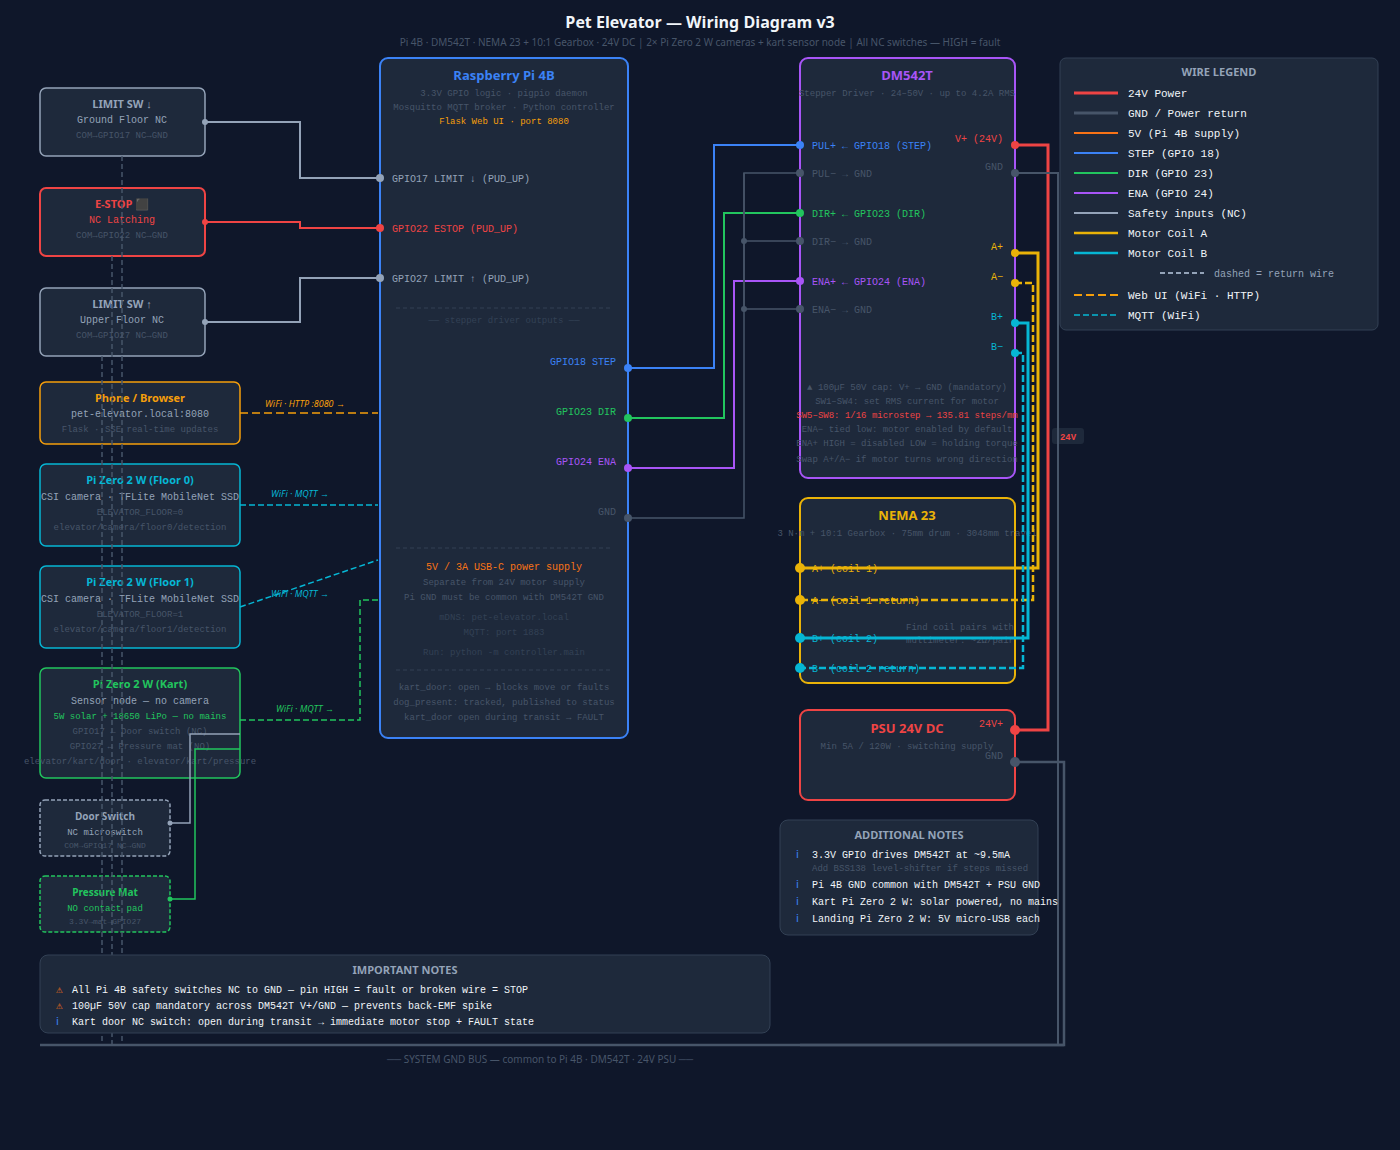
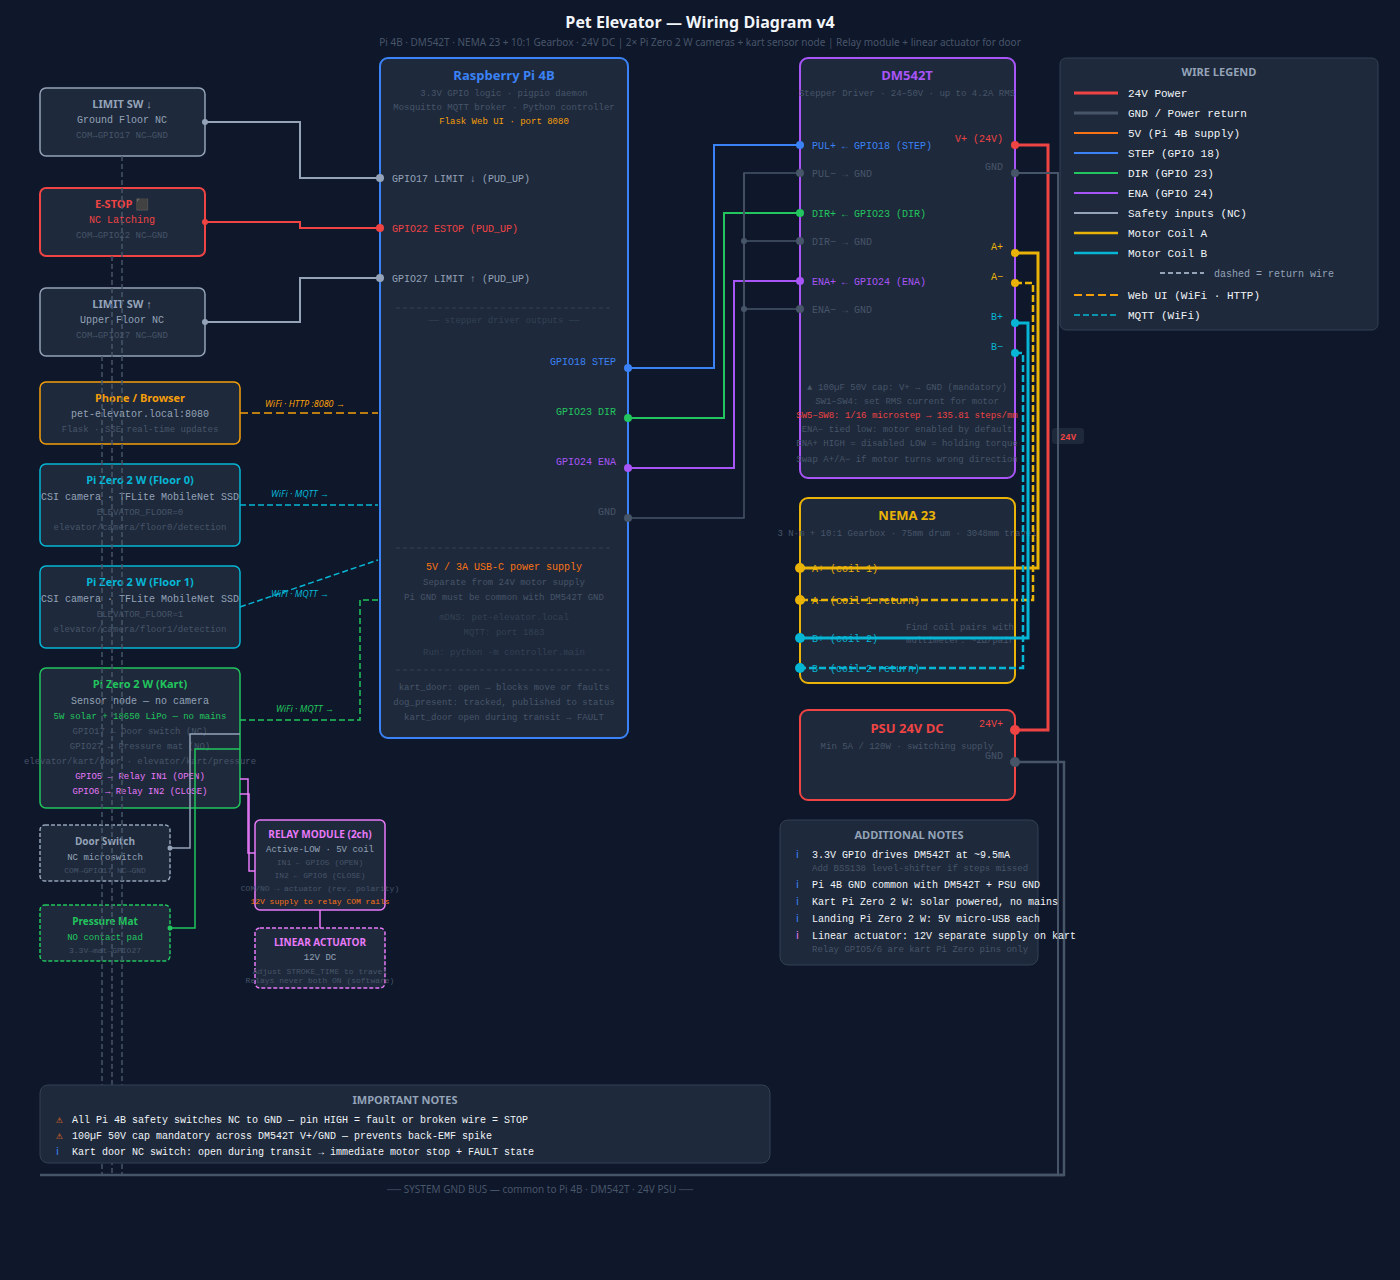
Add relay-driven linear actuator and pressure mat settle timer
- kart_node/config.py: DOOR_RELAY_OPEN_PIN (GPIO5), DOOR_RELAY_CLOSE_PIN
  (GPIO6), DOOR_ACTUATOR_STROKE_TIME (4.0s), DOG_BOARD_SETTLE_TIME (3.0s)
- kart_node/main.py: set up relay GPIO outputs (active-LOW, HIGH at boot);
  convert _init_mqtt/_on_mqtt_message from staticmethod to instance methods;
  _actuate_door() pulses relay in a daemon thread with guard-before-drive
  safety; pressure mat now uses a cancellable threading.Timer so dog_present
  is only published after the mat is held continuously for DOG_BOARD_SETTLE_TIME
- wiring/wiring_diagram.svg: v4 — relay module (GPIO5/6) and linear actuator
  added; kart Pi Zero box extended; SVG expanded to 1400×1280
- docs/wiring_diagram.png: re-rendered from updated SVG

diff --git a/kart_node/main.py b/kart_node/main.py
@@ -24,6 +24,7 @@ import json
 import logging
 import signal
 import sys
+import threading
 import time
 
 import RPi.GPIO as GPIO
@@ -41,6 +42,8 @@ logger = logging.getLogger(__name__)
 class KartNode:
     def __init__(self) -> None:
         self._mqtt = self._init_mqtt()
+        self._board_timer: threading.Timer | None = None
+        self._board_timer_lock = threading.Lock()
 
     # ------------------------------------------------------------------ #
     # Lifecycle                                                            #
@@ -74,6 +77,9 @@ class KartNode:
         GPIO.setmode(GPIO.BCM)
         GPIO.setup(config.DOOR_PIN,     GPIO.IN, pull_up_down=GPIO.PUD_UP)
         GPIO.setup(config.PRESSURE_PIN, GPIO.IN, pull_up_down=GPIO.PUD_DOWN)
+        # Relay outputs: active-LOW module, so initial=HIGH keeps relays off at boot.
+        GPIO.setup(config.DOOR_RELAY_OPEN_PIN,  GPIO.OUT, initial=GPIO.HIGH)
+        GPIO.setup(config.DOOR_RELAY_CLOSE_PIN, GPIO.OUT, initial=GPIO.HIGH)
         GPIO.add_event_detect(
             config.DOOR_PIN, GPIO.BOTH,
             callback=self._on_door_change, bouncetime=50,
@@ -96,15 +102,37 @@ class KartNode:
 
     def _on_pressure_change(self, channel: int) -> None:
         present = self._read_pressure()
-        logger.info("Pressure mat → dog_present=%s", present)
-        self._publish_pressure(present)
+        logger.info("Pressure mat → dog_present=%s (raw)", present)
+        with self._board_timer_lock:
+            if self._board_timer is not None:
+                self._board_timer.cancel()
+                self._board_timer = None
+        if present:
+            # Start settle timer — only publish "aboard" if mat stays held
+            with self._board_timer_lock:
+                self._board_timer = threading.Timer(
+                    config.DOG_BOARD_SETTLE_TIME, self._confirm_boarded,
+                )
+                self._board_timer.daemon = True
+                self._board_timer.start()
+            logger.info("Pressure mat held — confirming in %.1fs", config.DOG_BOARD_SETTLE_TIME)
+        else:
+            self._publish_pressure(False)
+
+    def _confirm_boarded(self) -> None:
+        with self._board_timer_lock:
+            self._board_timer = None
+        if self._read_pressure():
+            logger.info("Dog fully aboard (settle complete)")
+            self._publish_pressure(True)
+        else:
+            logger.info("Pressure mat released during settle — ignoring")
 
     # ------------------------------------------------------------------ #
     # MQTT                                                                 #
     # ------------------------------------------------------------------ #
 
-    @staticmethod
-    def _init_mqtt() -> mqtt.Client:
+    def _init_mqtt(self) -> mqtt.Client:
         client = mqtt.Client(client_id="elevator-kart", clean_session=True)
         client.on_connect    = lambda c, u, f, rc: (
             logger.info("MQTT connected to %s (rc=%d)", config.MQTT_BROKER, rc),
@@ -113,11 +141,10 @@ class KartNode:
         client.on_disconnect = lambda c, u, rc: logger.warning(
             "MQTT disconnected (rc=%d)", rc
         )
-        client.on_message = KartNode._on_mqtt_message
+        client.on_message = self._on_mqtt_message
         return client
 
-    @staticmethod
-    def _on_mqtt_message(client, userdata, msg) -> None:
+    def _on_mqtt_message(self, client, userdata, msg) -> None:
         try:
             payload = json.loads(msg.payload)
         except (json.JSONDecodeError, UnicodeDecodeError):
@@ -130,8 +157,16 @@ class KartNode:
                 logger.warning("Unknown door command action: %r", action)
                 return
             logger.info("Door command received: %s", action)
-            # TODO: actuate door motor/servo on GPIO when hardware is fitted
-            # e.g. GPIO.output(config.DOOR_ACTUATOR_PIN, GPIO.HIGH if action == "open" else GPIO.LOW)
+            threading.Thread(target=self._actuate_door, args=(action,), daemon=True).start()
+
+    def _actuate_door(self, action: str) -> None:
+        drive_pin = config.DOOR_RELAY_OPEN_PIN  if action == "open"  else config.DOOR_RELAY_CLOSE_PIN
+        guard_pin = config.DOOR_RELAY_CLOSE_PIN if action == "open"  else config.DOOR_RELAY_OPEN_PIN
+        GPIO.output(guard_pin, GPIO.HIGH)  # de-energise other relay first (active-LOW: HIGH = off)
+        GPIO.output(drive_pin, GPIO.LOW)   # energise drive relay (active-LOW: LOW = on)
+        time.sleep(config.DOOR_ACTUATOR_STROKE_TIME)
+        GPIO.output(drive_pin, GPIO.HIGH)  # de-energise when stroke complete
+        logger.info("Door actuator %s complete", action)
 
     def _publish_door(self, status: str) -> None:
         payload = json.dumps({"status": status})

diff --git a/kart_node/config.py b/kart_node/config.py
@@ -9,6 +9,20 @@ DOOR_PIN     = 17
 #   Pull-down enabled. No dog = LOW. Dog on mat = HIGH.
 PRESSURE_PIN = 27
 
+# Door actuator: 2-channel relay module (active-LOW) driving a linear actuator.
+#   GPIO LOW  = relay energised = actuator moving.
+#   GPIO HIGH = relay off       = actuator holds position.
+#   Software guarantees only one relay is ever energised at a time.
+DOOR_RELAY_OPEN_PIN  = 5   # relay IN1 → extend actuator (open door)
+DOOR_RELAY_CLOSE_PIN = 6   # relay IN2 → retract actuator (close door)
+
+# Tune to your actuator's stroke length and no-load speed; add ~0.5 s margin.
+DOOR_ACTUATOR_STROKE_TIME = 4.0  # seconds
+
+# How long the pressure mat must be continuously held before publishing "dog aboard".
+# Prevents a brief step-on from triggering the door-close sequence prematurely.
+DOG_BOARD_SETTLE_TIME = 3.0  # seconds
+
 # ── MQTT ──────────────────────────────────────────────────────────────────
 MQTT_BROKER           = os.environ.get("ELEVATOR_BROKER", "pet-elevator.local")
 MQTT_PORT             = 1883